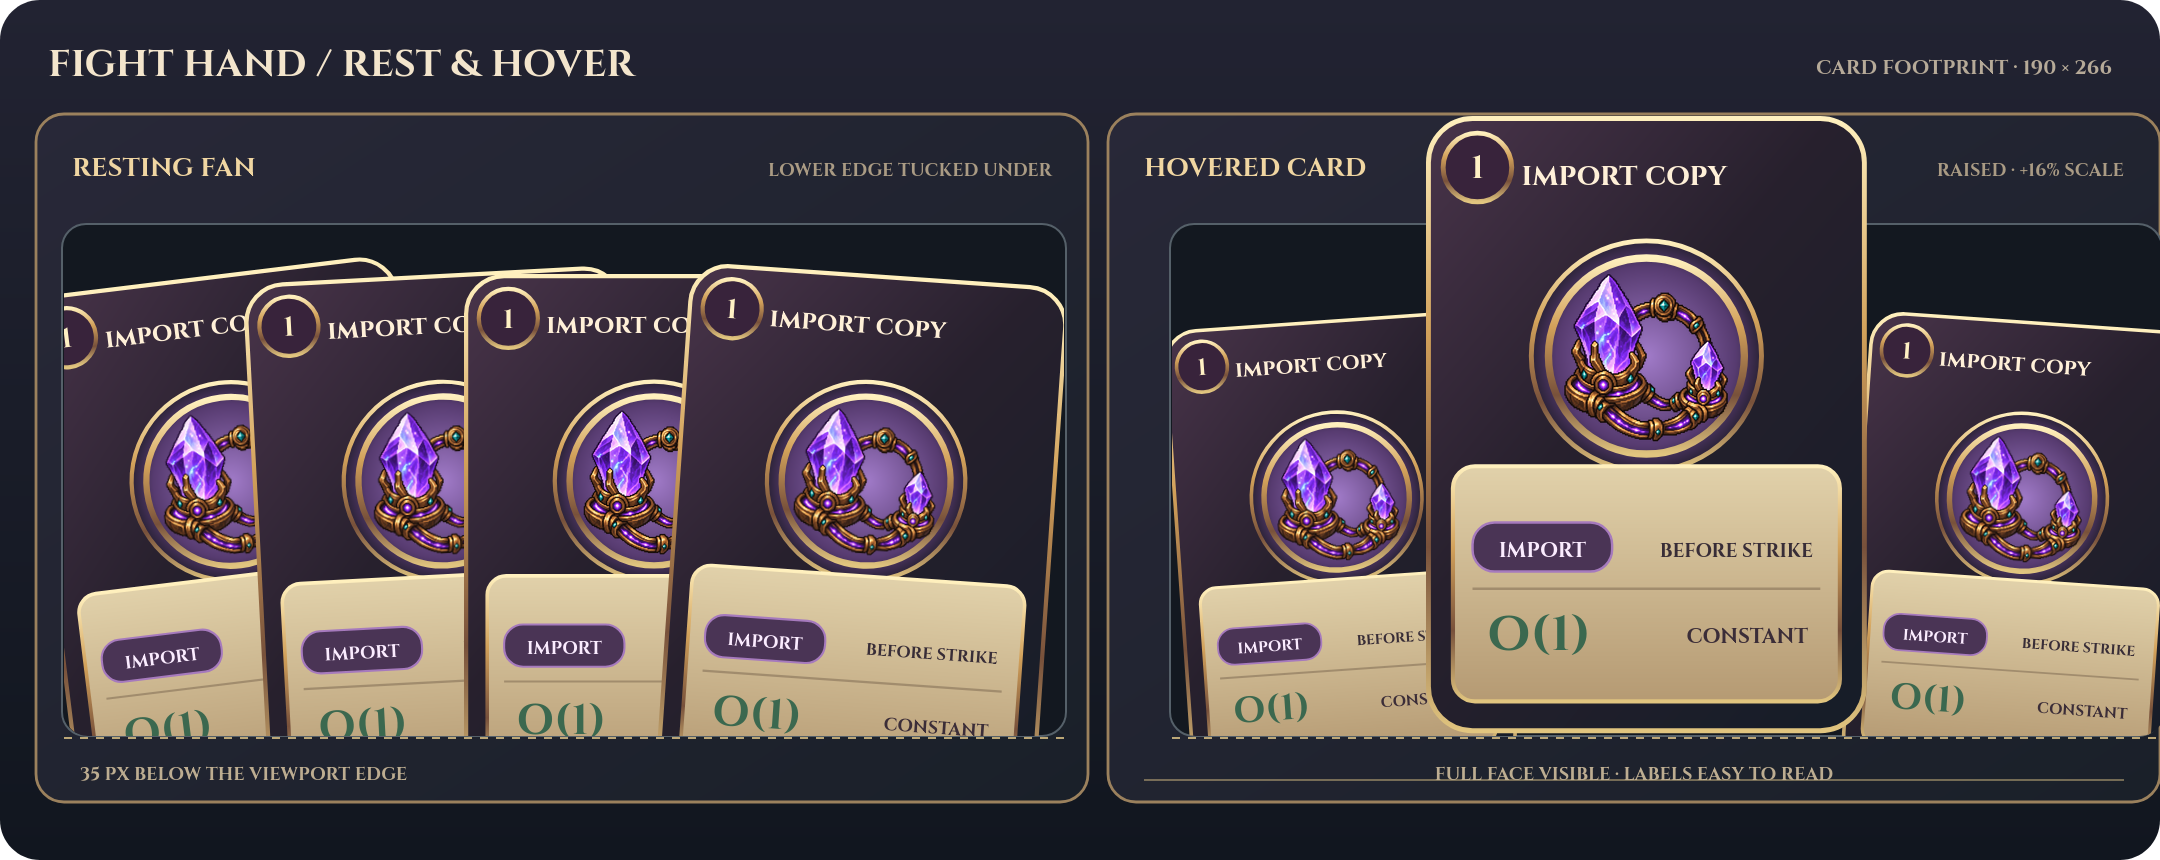
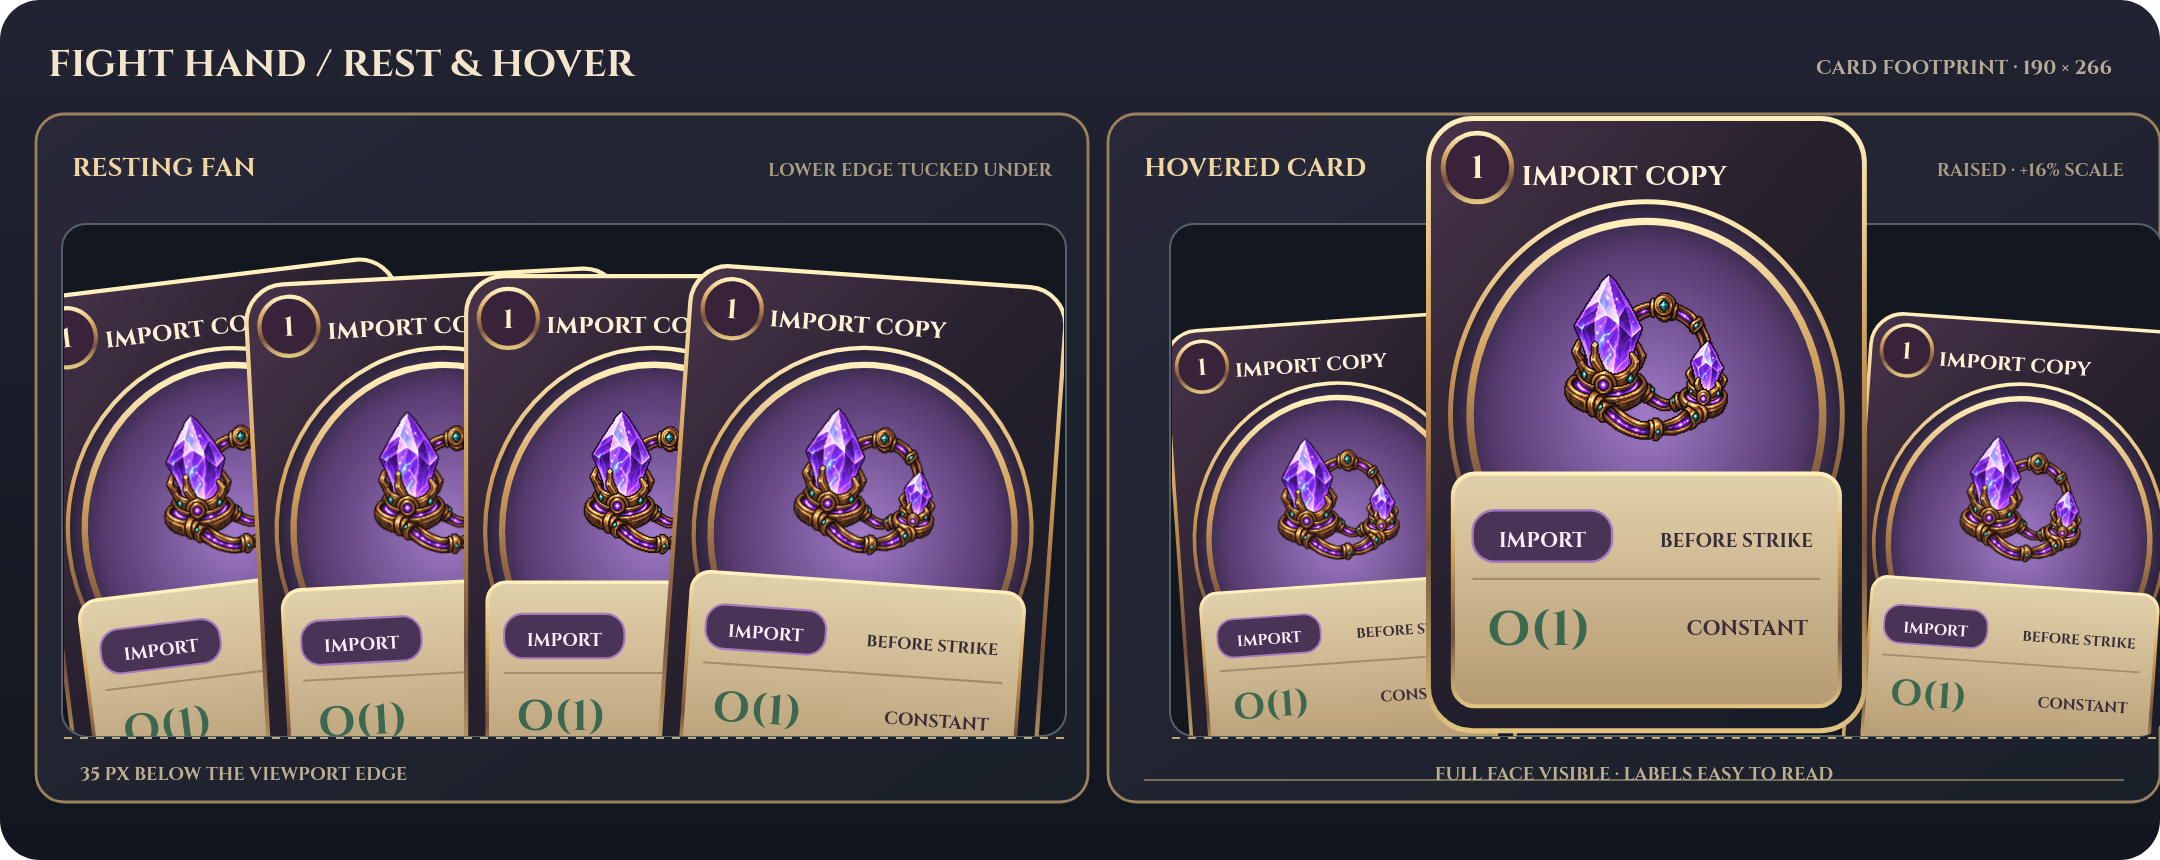
docs(cards): widen oval shard frames

diff --git a/Concept/v0.2/cards/README.md b/Concept/v0.2/cards/README.md
@@ -1,14 +1,14 @@
 # Hand-card concepts · v0.2
 
-Four portrait treatments of the same `import copy` card explore a Hearthstone-like collectible frame with a little of Slay the Spire's worn paper and restrained ink. The cost gem and title share one header row. Each concept uses Cinzel, a compact rules plaque, and a round shard medallion; the illustration is fully contained, not cut into a circle.
+Four portrait treatments of the same `import copy` card explore a Hearthstone-like collectible frame with a little of Slay the Spire's worn paper and restrained ink. The cost gem and title share one header row. Each concept uses Cinzel, a compact rules plaque, and an oversized oval shard frame; the illustration is fully contained, not clipped by the frame.
 
-| Design | Size | Circular treatment |
+| Design | Size | Frame treatment |
 |---|---:|---|
 | [Hearth Medallion](01-hearth-medallion.svg) · [preview](01-hearth-medallion-preview.png) | 190 × 266 | Beveled gold medallion; paradigm color glows behind the shard |
 | [Astral Wheel](02-astral-wheel.svg) · [preview](02-astral-wheel-preview.png) | 188 × 264 | Open astrolabe rings; paradigm color glows behind the shard |
 | [Velvet Oracle](03-velvet-oracle.svg) · [preview](03-velvet-oracle-preview.png) | 192 × 270 | Jewel portrait, grimoire seal, and a small branching crest |
 | [Rootglass Halo](04-rootglass-halo.svg) · [preview](04-rootglass-halo-preview.png) | 190 × 266 | Segmented halo, quiet branching engravings, and a branching crest |
 
-The first two concepts try paradigm color as a soft violet portrait well; the last two use a compact branching crest in the upper-right corner. The crest silhouette can also use pewter for neutral cards, with a simple neutral mark. The round portrait well is about 96 × 96 (roughly 36–38% of card height); the existing shard art sits inside at 76 × 76. Its lower ring tucks behind the parchment panel. The panel keeps only the role, timing, and complexity cues: `IMPORT`, `BEFORE STRIKE`, `O(1)`, and `CONSTANT`. The card does not explain its effect, leaving the code as the place to learn what it does.
+The first two concepts try paradigm color as a soft violet portrait well; the last two use a compact branching crest in the upper-right corner. The crest silhouette can also use pewter for neutral cards, with a simple neutral mark. The shard remains 76 × 76 in the same position. Its 160 × 174 oval frame reaches close to the title and side borders; the textbox masks the lower 33% of its area. The panel keeps only the role, timing, and complexity cues: `IMPORT`, `BEFORE STRIKE`, `O(1)`, and `CONSTANT`. The card does not explain its effect, leaving the code as the place to learn what it does.
 
 These concepts use the existing pixel art at `game/assets/shardrun/card-import-copy.png`. The current hand card is 164 × 227; these are about 15–17% wider and 16–19% taller. [The hand study](hand-hover-study.svg) shows the proposed resting crop with about 35 px hidden below the viewport and a fully raised, 16% enlarged hover card. No live UI or production art is changed here.
